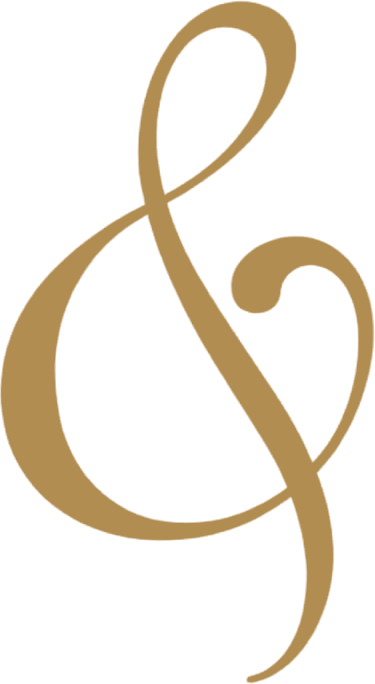
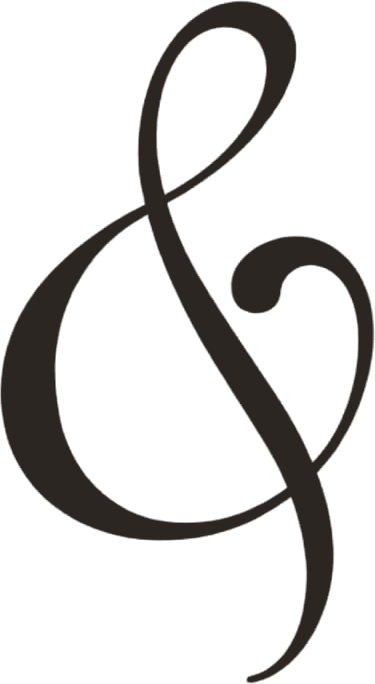
& como la imagen original, más grande y separado; también en el sobre

Changed region(s): [[0.0, 0.0, 0.9973, 1.0]]

diff --git a/index.html b/index.html
@@ -113,7 +113,8 @@ p{margin:0;max-width:34ch;text-wrap:pretty}
 .marco .honor{font-size:calc(var(--u) * 2.9 * var(--k));letter-spacing:.1em;text-transform:uppercase;line-height:1.45}
 /* "&" caligráfico (imagen sin fondo) */
 img.y{display:inline-block;height:1.05em;width:auto;vertical-align:-.12em;margin:0 .06em}
-.marco .amp img.y{display:block;height:calc(var(--u) * 12 * var(--k));margin:0}
+.marco .amp img.y{display:block;height:calc(var(--u) * 17 * var(--k));margin:calc(var(--u) * 2.2 * var(--k)) 0}
+img.y.y-grande{display:block;height:1.9em;margin:.18em auto}
 .marco .divisor{width:calc(var(--u) * 16);height:1px;background:var(--oro)}
 .escribir{display:inline-block;clip-path:inset(0 100% 0 0);animation:escribe 2s cubic-bezier(.6,0,.3,1) forwards paused}
 .lista .escribir{animation-play-state:running}
@@ -242,7 +243,7 @@ form .btn{justify-self:center;margin-top:4px}
 <div id="sobre" role="dialog" aria-label="Sobre de la invitación">
   <div class="env">
     <div class="interior-sobre"></div>
-    <div class="carta"><span>Sophia <img class="y" src="elementos/amp.webp" alt="&amp;"><br>Jean Paul</span></div>
+    <div class="carta"><span>Sophia<img class="y y-grande" src="elementos/amp.webp?v=2" alt="&amp;">Jean Paul</span></div>
     <div class="capa cuerpo"></div>
     <div class="solapa"><div class="cara"></div><div class="dorso"></div></div>
     <button id="abrir" type="button" aria-label="Abrir la invitación"></button>
@@ -266,7 +267,7 @@ form .btn{justify-self:center;margin-top:4px}
         <div class="divisor"></div>
         <div class="nombres">
           <span class="script escribir">Sophia Victoria</span>
-          <span class="amp escribir d2"><img class="y" src="elementos/amp.webp" alt="&amp;"></span>
+          <span class="amp escribir d2"><img class="y" src="elementos/amp.webp?v=2" alt="&amp;"></span>
           <span class="script escribir d3">Jean Paul</span>
         </div>
         <div class="honor">Tenemos el honor de invitarles a celebrar nuestro matrimonio civil</div>
@@ -402,7 +403,7 @@ form .btn{justify-self:center;margin-top:4px}
 
   <!-- Pie -->
   <section class="pie revelar velo" style="padding-bottom:30px;margin-bottom:70px">
-    <div class="script">Sophia <img class="y" src="elementos/amp.webp" alt="&amp;"> Jean Paul</div>
+    <div class="script">Sophia <img class="y" src="elementos/amp.webp?v=2" alt="&amp;"> Jean Paul</div>
     <span>12 · 12 · 2026</span>
   </section>
 </main>
